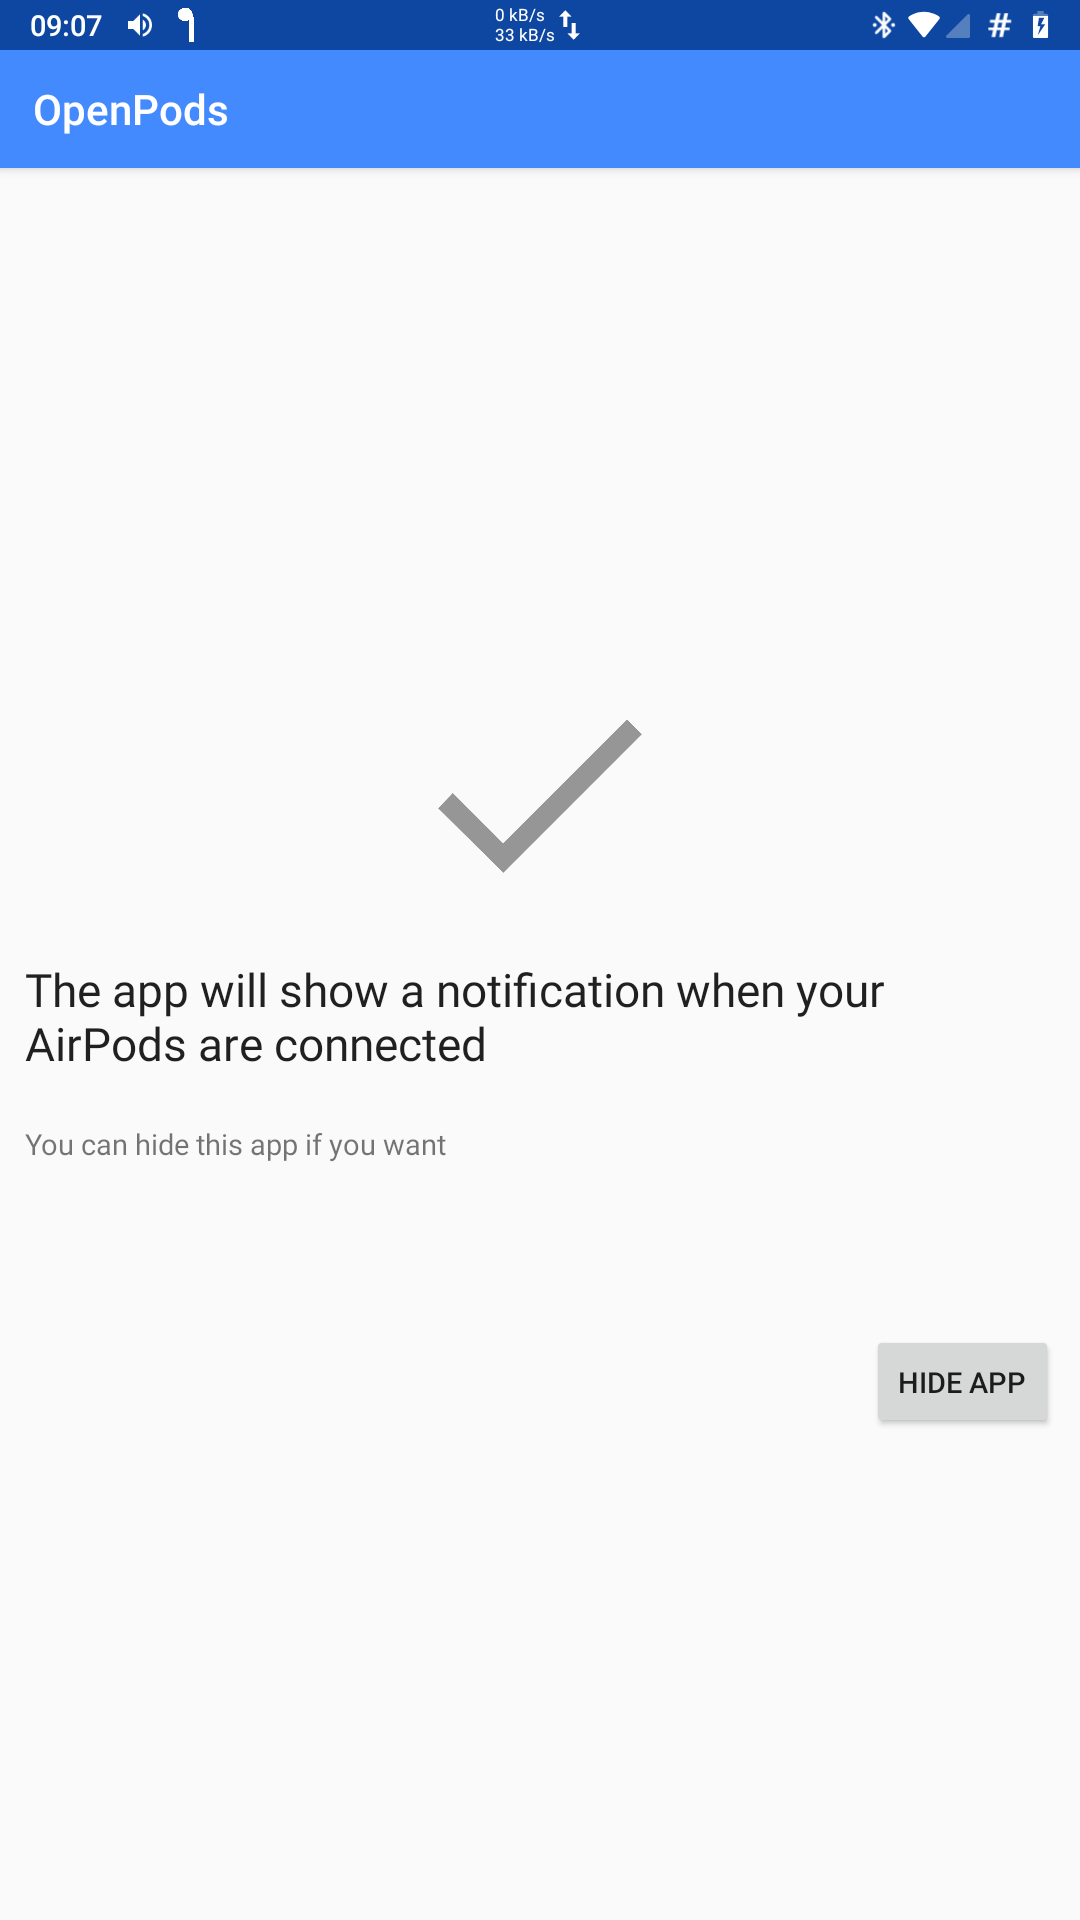
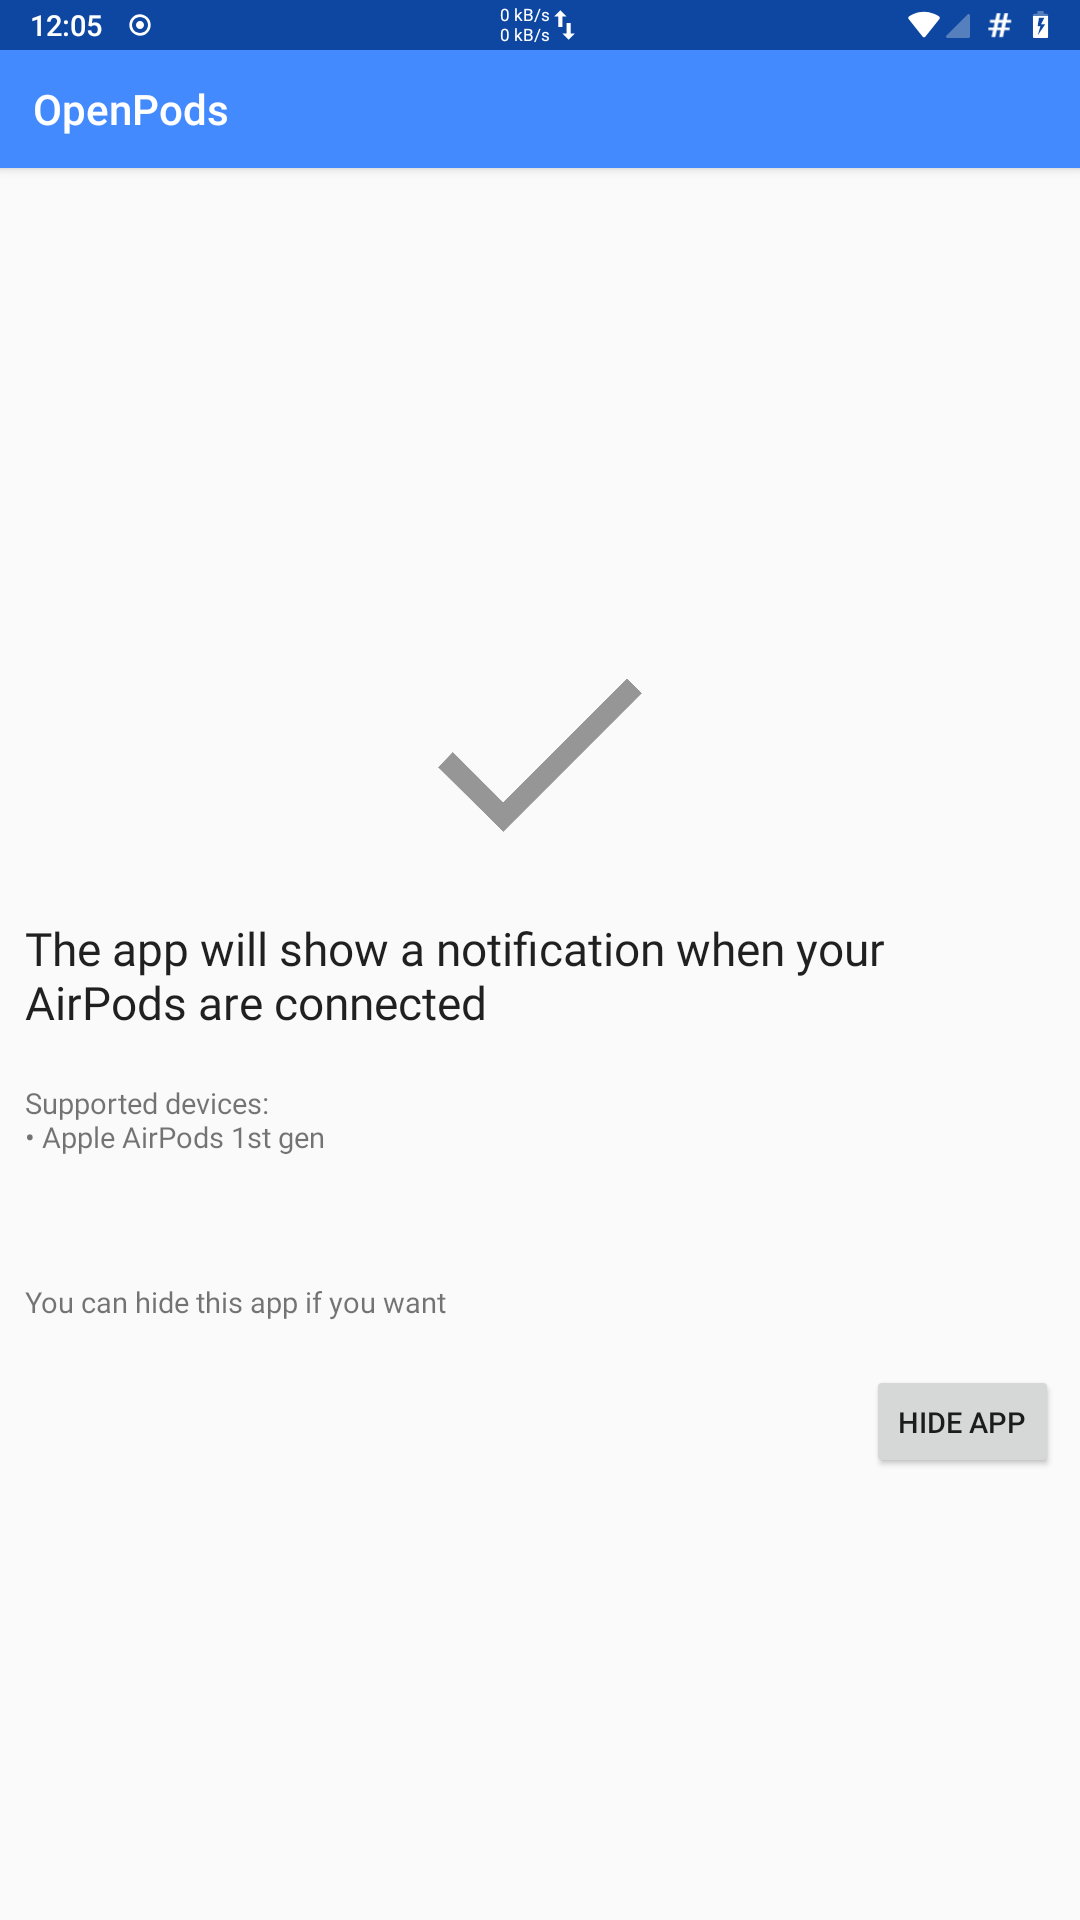
Aesthetic changes

diff --git a/OpenPods/app/src/main/java/com/dosse/airpods/MainActivity.java b/OpenPods/app/src/main/java/com/dosse/airpods/MainActivity.java
@@ -50,7 +50,7 @@ public class MainActivity extends AppCompatActivity {
                 PackageManager p = getPackageManager();
                 p.setComponentEnabledSetting(new ComponentName(MainActivity.this,MainActivity.class), PackageManager.COMPONENT_ENABLED_STATE_DISABLED, PackageManager.DONT_KILL_APP);
                 Toast.makeText(getApplicationContext(),getString(R.string.hideClicked), Toast.LENGTH_LONG).show();
-                try{getApplicationContext().openFileOutput("hidden",MODE_PRIVATE).close();}catch(Throwable t){}
+                finish();
             }
         });
     }

diff --git a/README.md b/README.md
@@ -14,6 +14,9 @@ The project is currently in Alpha.
 * Respects your privacy
 * Free and Open Source software
 
+## Supported devices
+* Apple AirPods 1st gen
+
 ## Project status
 Right now, this project should be considered in alpha state. It was not extensively tested, it may not be stable or work at all on your device.
 
